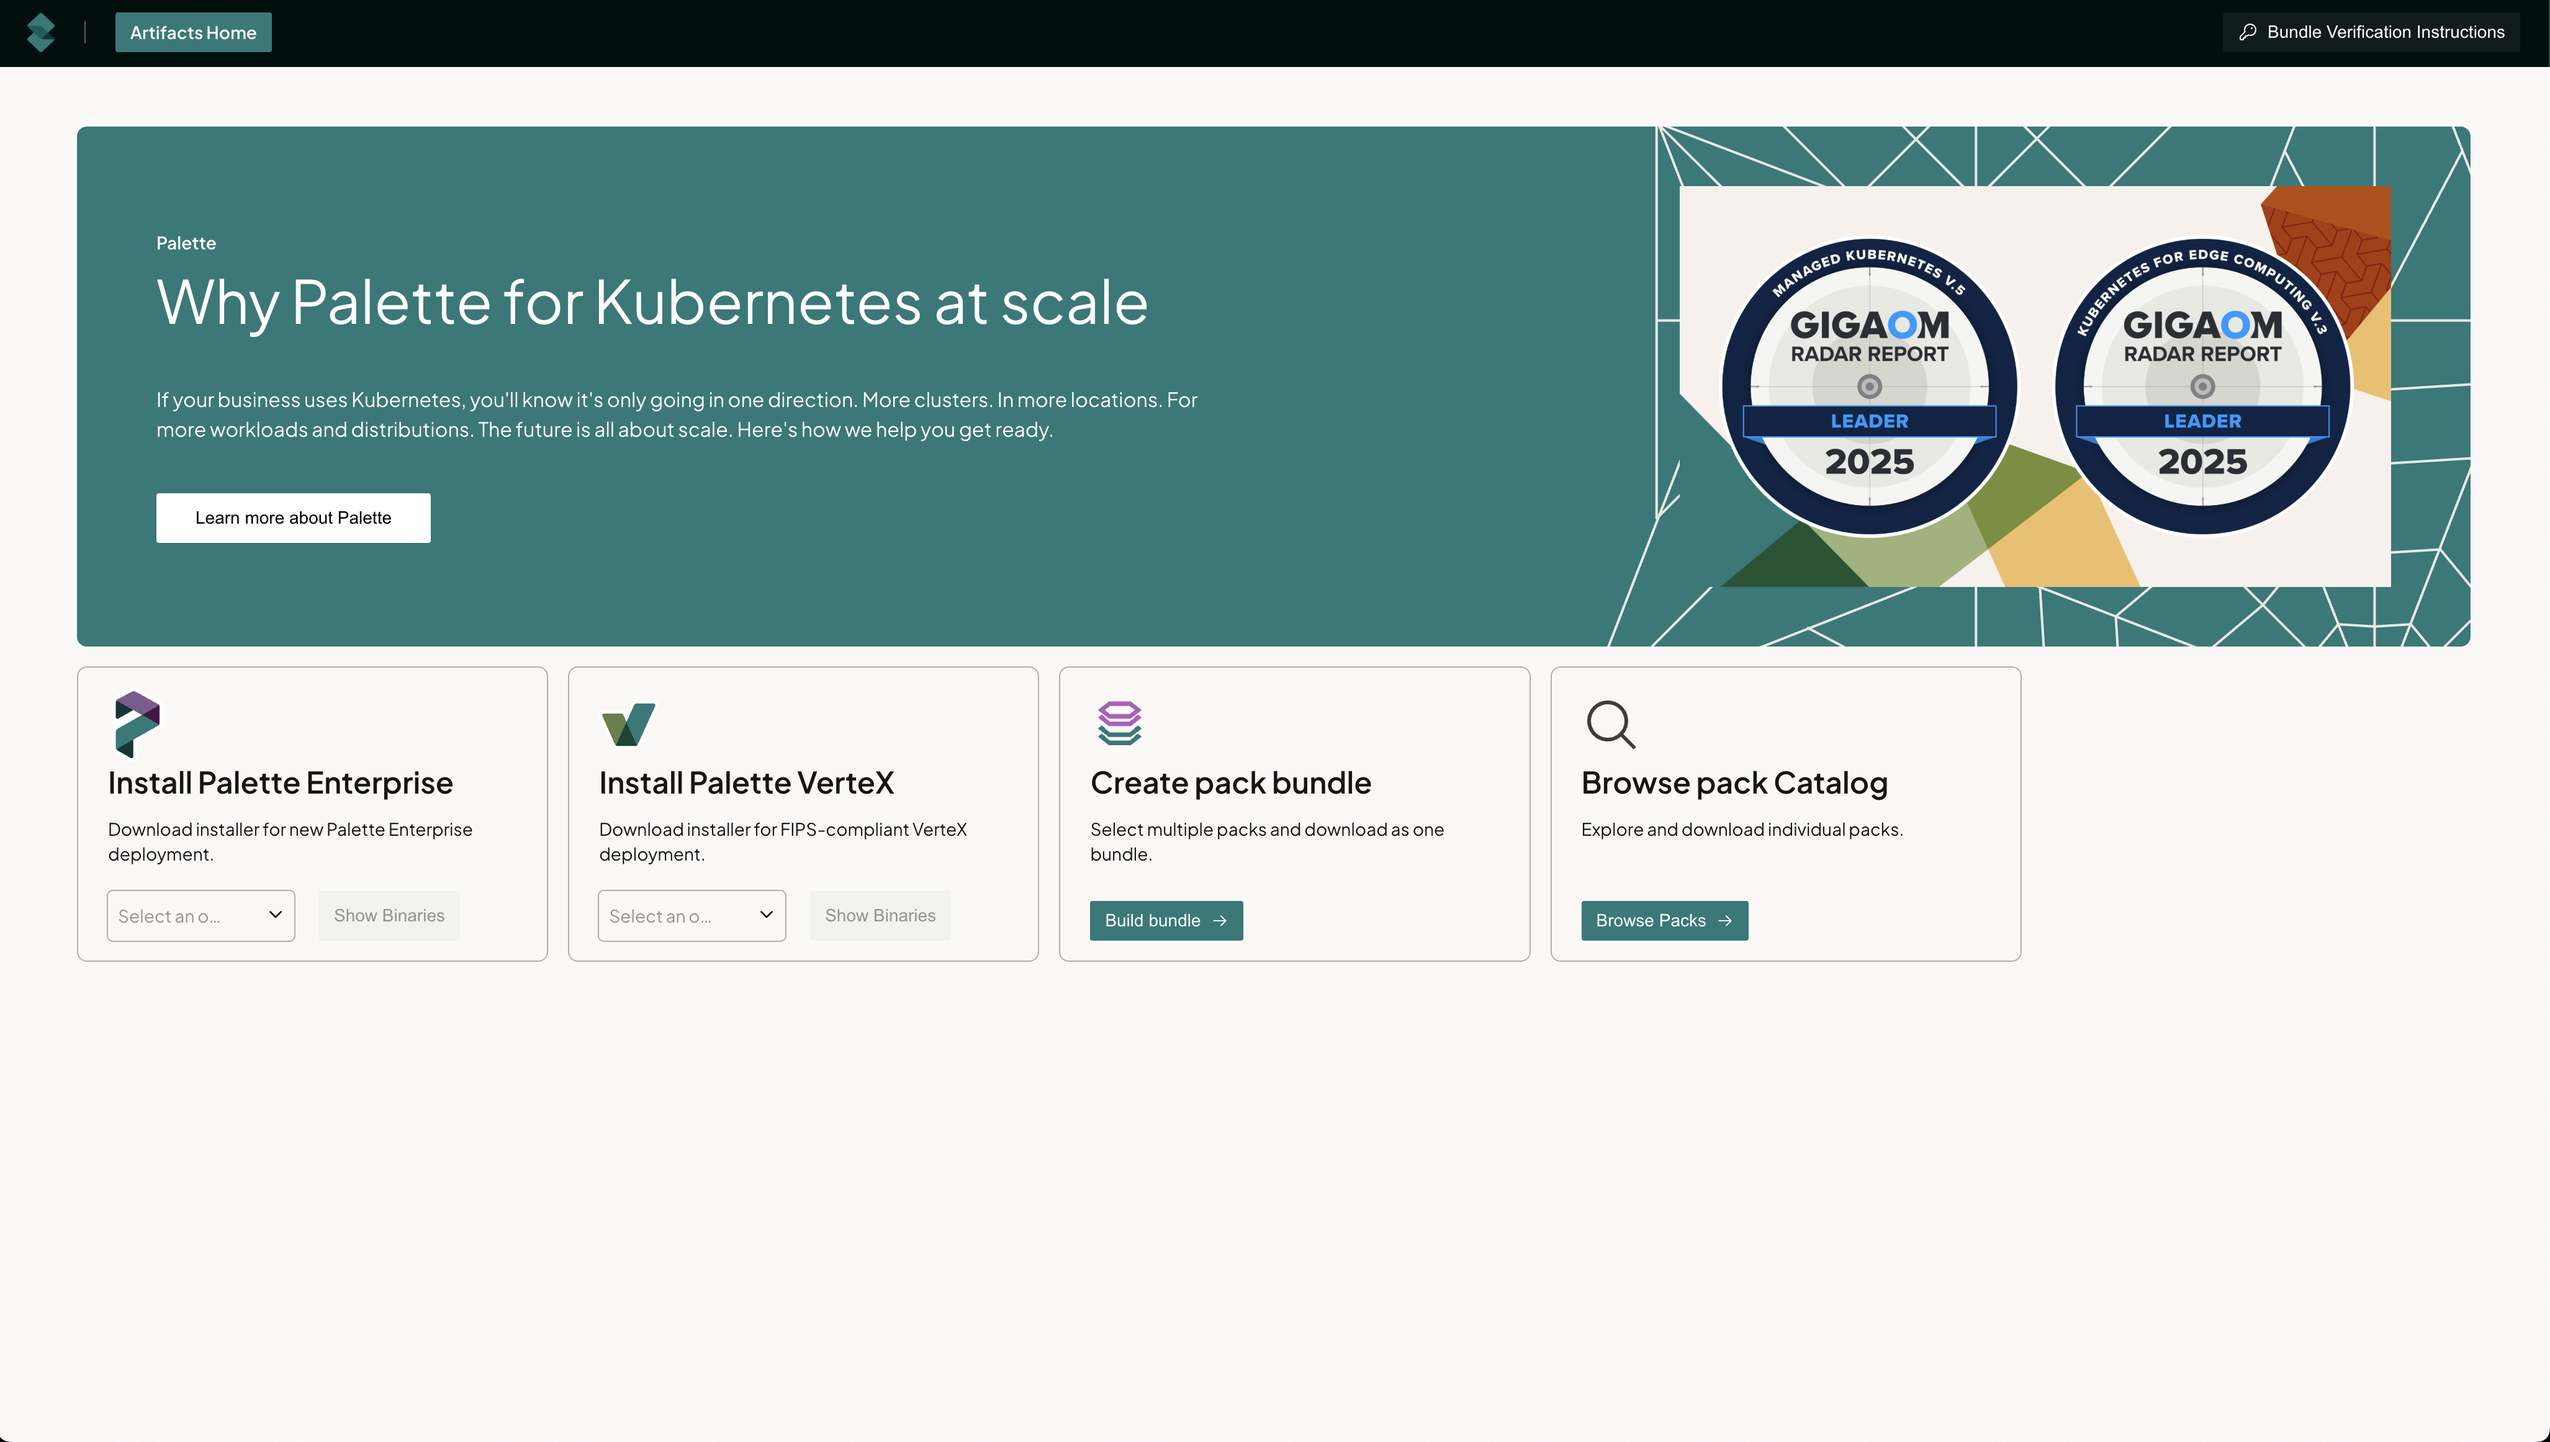
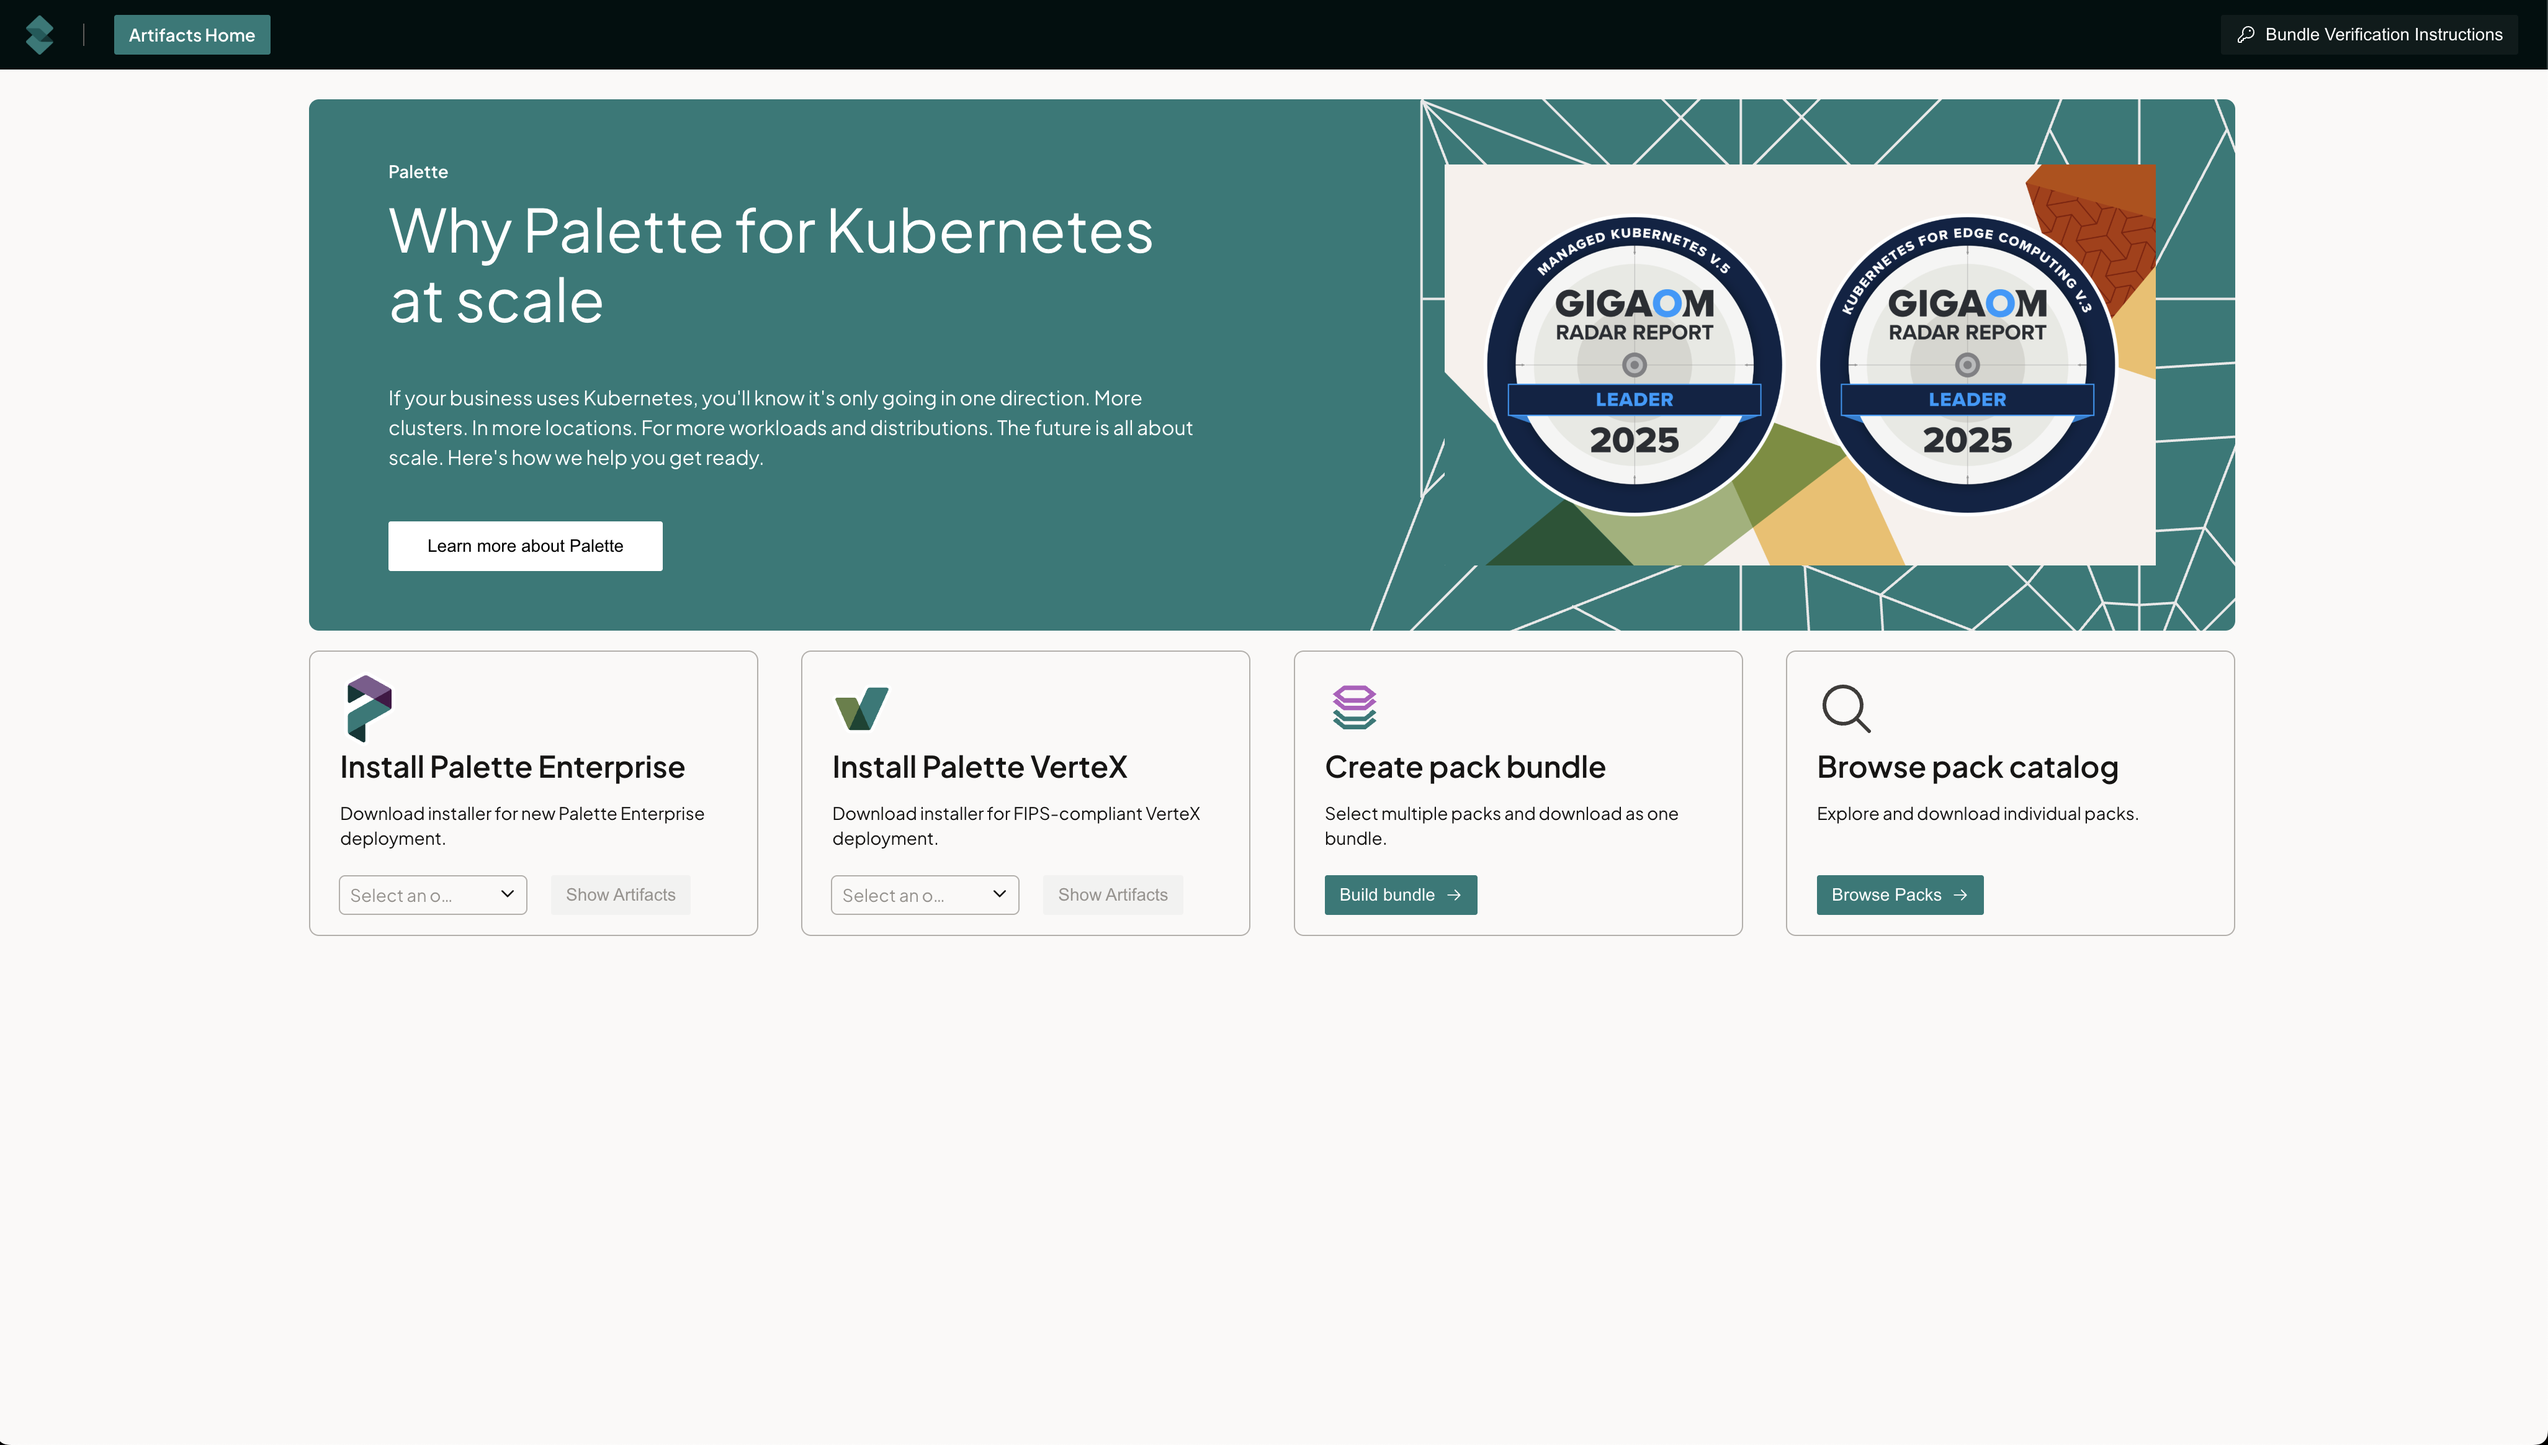
pem-7759: additional details added along with images

diff --git a/docs/docs-content/downloads/artifacts-studio.md b/docs/docs-content/downloads/artifacts-studio.md
@@ -38,23 +38,57 @@ tags: ["downloads", "artifact-studio"]
 
 1. Navigate to [Artifacts Studio](https://artifact-studio.internal.spectrocloud.com/).
 
-2. ....
+2. Click on **Build bundle**.
 
-3. Click on **Bundle Verification Instructions** found at the top right of the page. 
+![Image of Create pack bundle](../../../static/assets/docs/images/downloads/downloads_artifacts-studio-build-bundle.webp)
 
-4. Download the public key file `public_key.pem`.
+3. On the **Select Product** page select either **Palette Enterprise Appliance** or **Palette Vertex Appliance**. 
 
-5. Use the following command to verify the individual pack integrity. 
+4. On the **Current Version** page select the version the pack bundle will run on. 
+
+5. On the **Use case** page, select the use case for the bundle.
+
+| Use Case   | Definition |
+| ---------- | ---------- |
+| Controller mode | Download specific component packs for your existing |
+| Agent mode or Appliance mode | Get required packages for deploying Kubernetes at remote edge locations |
+| Add-on only | Download just supplementary tools and features to enhance your clusters |
+| FIPs? | TBA |
+| additional? | TBA |
+
+6. Select the Public Cloud or Data Center.
+
+7. On the **Build your bundle** page, select **OS**. This will start the process of building the bundle.
+
+8. Select the Operating System and click **Next Layer**. 
+
+9. Select the Kubernetes version and click **Next Layer**.
+
+10. On the **Network** page select the Network pack to be used. Click **Next Layer**.
+
+11. Select the Storage pack to be used and click **Next Layer**.
+
+12. On the **Add Packs** page, select one or more add-on packs. Click **Add to Bundle**.
+
+13. Click **Next Step**. 
+
+14. Click the **I'm not a robot** reCAPTCHA to download the bundle. The bundle will download as individual pack files (`<filename>.zst`) and individual signature file (`<filename>.bin`). Ensure that all the files are saved in the same folder. 
+
+15. Click on **Bundle Verification Instructions** found at the top right of the page. 
+
+16. Download the public key file `public_key.pem`.
+
+17. Use the following command to verify the individual pack integrity. 
 
 ```
 openssl dgst -sha256 -verify public_key.pem -signature bundle-name.tar.sig.bin bundle-name.zst
 ```
 
-6. A successful verification will show: **Verification OK**.
+18. A successful verification will show: **Verification OK**.
 
-Alternatively, use the following sample script to check all the files downloaded.
+Alternatively, use the following sample script to check all the files downloaded in the same folder. Ensure that `REPLACE ME` is replaced with the name of the public key downloaded. 
 
-```shell title="Example"
+```shell title="Example" {10}
  
 # This script verifies the signatures of data files against a public key.
 # It expects files named like `datafile.zst` and corresponding signatures `datafile.sig.bin`.
@@ -64,7 +98,7 @@ Alternatively, use the following sample script to check all the files downloaded
 
 #!/bin/bash
 
-PUBKEY="public_key.pem" # Enter path to public key file
+PUBKEY="REPLACE ME" # Enter path to public key file
 
 for sigfile in *.sig.bin; do
   # Strip `.sig.bin` to get base filename and corresponding data file
@@ -95,5 +129,77 @@ spectro-k8s-dashboard-7.11.1.zst: ✅ Signature valid
 ubuntu-aws-22.04.zst: ✅ Signature valid
 ```
 
+19. Click **Artifacts Home** to repeat the process for additional bundles.
+
 ## Download specific pack
 
+1. Click on **Browse Packs**.
+
+![Image showing where to download individual packs](../../../static/assets/docs/images/downloads/downloads_artifacts-studio-browse-packs.webp)
+
+2. Filter based on **Product**, **Version** (Product version), **Cloud type**, **Layer type**, CPU version and whether it is FIPS compliant or not. 
+
+![Image showing filter options](../../../static/assets/docs/images/downloads/downloads_artifacts-studio-filter-options.webp)
+
+3. Enter your search terms and click **Search** to further filter. 
+
+![Image showing filter and search together](../../../static/assets/docs/images/downloads/downloads_artifacts-studio-search-and-filter.webp)
+
+4. Select one or more packs, and click the **I'm not a robot** reCAPTCHA to download the bundle. The bundle will download as individual pack files (`<filename>.zst`) and individual signature file (`<filename>.bin`). Ensure that all the files are saved in the same folder.
+
+![Image showing download of multiple packs](../../../static/assets/docs/images/downloads/downloads_artifacts-studio-individual-packs-download.webp)
+
+5. Click on **Bundle Verification Instructions** found at the top right of the page. 
+
+6. Download the public key file `public_key.pem`.
+
+7. Use the following command to verify the individual pack integrity. 
+
+```
+openssl dgst -sha256 -verify public_key.pem -signature bundle-name.tar.sig.bin bundle-name.zst
+```
+
+8. A successful verification will show: **Verification OK**.
+
+Alternatively, use the following sample script to check all the files downloaded in the same folder. Ensure that `REPLACE ME` is replaced with the name of the public key downloaded. 
+
+```shell title="Example" {10}
+ 
+# This script verifies the signatures of data files against a public key.
+# It expects files named like `datafile.zst` and corresponding signatures `datafile.sig.bin`.
+# Ensure you have OpenSSL installed to run this script and that the public key is in PEM format.
+# Ensure the script has execute permissions: `chmod +x verify.sh`
+# Usage: ./verify.sh 
+
+#!/bin/bash
+
+PUBKEY="REPLACE ME" # Enter path to public key file
+
+for sigfile in *.sig.bin; do
+  # Strip `.sig.bin` to get base filename and corresponding data file
+  base="${sigfile%.sig.bin}"
+  datafile="${base}.zst"
+
+  if [[ ! -f "$datafile" ]]; then # Check if data file exists
+    echo "$datafile: ❌ Data file not found" # Skip to next iteration  
+    continue
+  fi
+
+  # Run signature verification
+  if openssl dgst -sha256 -verify "$PUBKEY" -signature "$sigfile" "$datafile" > /dev/null 2>&1; then # Verify signature
+    echo "$datafile: ✅ Signature valid" # Print success message
+  else
+    echo "$datafile: ❌ Signature invalid" # Print failure message
+  fi
+done
+```
+
+You should see the following output.
+
+```shell title="Output Example"
+cni-calico-3.29.2.zst: ✅ Signature valid
+csi-aws-ebs-1.41.0.zst: ✅ Signature valid
+kubernetes-1.32.3.zst: ✅ Signature valid
+spectro-k8s-dashboard-7.11.1.zst: ✅ Signature valid
+ubuntu-aws-22.04.zst: ✅ Signature valid
+```
